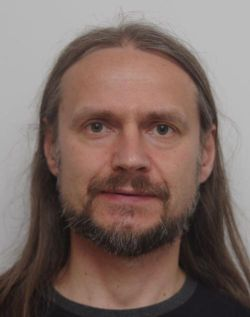
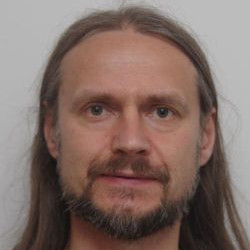
round profile photo

diff --git a/src/scss/main.scss b/src/scss/main.scss
@@ -11,3 +11,8 @@ body {
   font-family: 'Nunito', sans-serif;
 }
 
+.header {
+  &__photo {
+    border-radius: 50%;
+  }
+}
